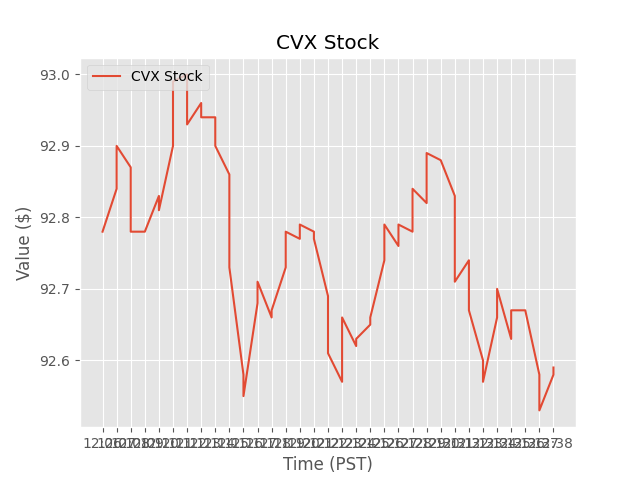
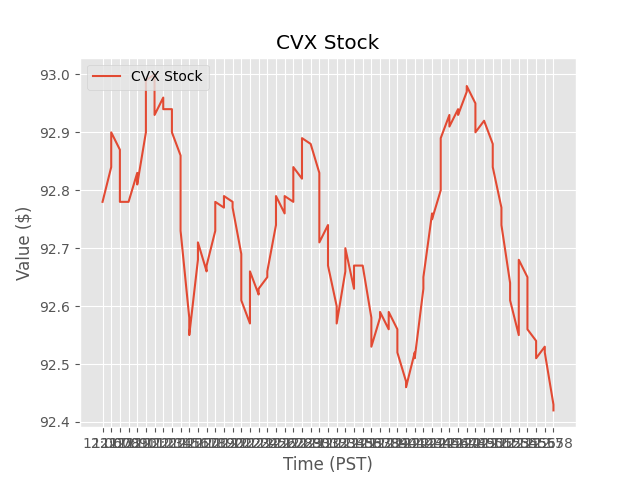
live graph with auto start

diff --git a/stockAnalytics.py b/stockAnalytics.py
@@ -103,21 +103,21 @@ def dayCollection():
 	os.system('cls' if os.name == 'nt' else 'clear')
 	print("Starting collection:", datetime.now())
 	StockList = list()
-	#StockList.append(StockAnalytics("DIS"))
-	#StockList.append(StockAnalytics("AMZN"))
-	#StockList.append(StockAnalytics("NFLX"))
-	#StockList.append(StockAnalytics("GOOG"))
-	#StockList.append(StockAnalytics("AAPL"))
-	#StockList.append(StockAnalytics("TSLA"))
+	StockList.append(StockAnalytics("DIS"))
+	StockList.append(StockAnalytics("AMZN"))
+	StockList.append(StockAnalytics("NFLX"))
+	StockList.append(StockAnalytics("GOOG"))
+	StockList.append(StockAnalytics("AAPL"))
+	StockList.append(StockAnalytics("TSLA"))
 	StockList.append(StockAnalytics("CVX"))
 	
 	threadList = list()
 	for stock in StockList:
 		graph = liveGraph(stock.getStockLabel())
-		thread = threading.Thread(target=stock.collectStockPrices, args = (7,"H"))
+		stockThread = threading.Thread(target=stock.collectStockPrices, args = (7,"H"))
 		graphThread = threading.Thread(target=graph.graph)
-		threadList.append(thread)
-		thread.start()
+		threadList.append(stockThread)
+		stockThread.start()
 		graphThread.start()	
 
 def autoStart():

diff --git a/liveGraph.py b/liveGraph.py
@@ -32,6 +32,4 @@ class liveGraph:
 		plt.tight_layout()
 		plt.show()
 
-obj1 = liveGraph('cvx')
-obj1.graph()
 
